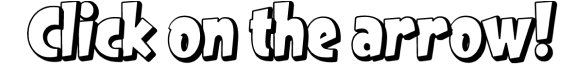
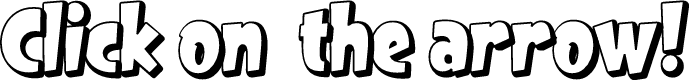
updated the "click on the right arrow"

diff --git a/index.html b/index.html
@@ -18,7 +18,6 @@ title: Certified Lover Data
   <section class="slide" id="slide1">
     <img src="{{ site.baseurl }}/assets/images/logo.png" alt="Certified Lover Data" class="logo" />
     <img src="{{ site.baseurl }}/assets/images/party2.gif" alt="Party GIF" class="party-gif" />
-    <img src="{{ site.baseurl }}/assets/images/click.png" alt="Click on the arrow" class="click-img" />
   </section>
 
   <section class="slide" id="slide2">
@@ -71,7 +70,9 @@ title: Certified Lover Data
 
 <div class="nav-arrow right" id="rightArrow" onclick="nextSlide()">
   <img src="{{ site.baseurl }}/assets/images/right.png" alt="Right arrow" class="arrow-img" />
+  <img src="{{ site.baseurl }}/assets/images/click.png" alt="Click prompt" class="click-prompt visible-on-load" id="clickPrompt" />
 </div>
+
 
 <!-- JavaScript logic -->
 <script>
@@ -143,6 +144,10 @@ function updateSlide() {
   bars.forEach((bar, index) => {
     bar.classList.toggle('active', index === currentSlide);
   });
+  const clickPrompt = document.getElementById("clickPrompt");
+  if (clickPrompt) {
+    clickPrompt.style.display = currentSlide === 0 ? "block" : "none";
+  }
 
   if (currentSlide === 2 && !window.mapDrawn) {
     drawMap();

diff --git a/assets/css/style.css b/assets/css/style.css
@@ -224,4 +224,16 @@ body, html {
   #leftArrow {
     display: none;
   }
+  .click-prompt {
+    width: 100px;
+    margin-top: 8px;
+    display: none;
+    pointer-events: none;
+    transition: opacity 0.3s ease;
+  }
+  
+  .visible-on-load {
+    display: block;
+  }
+  
   
